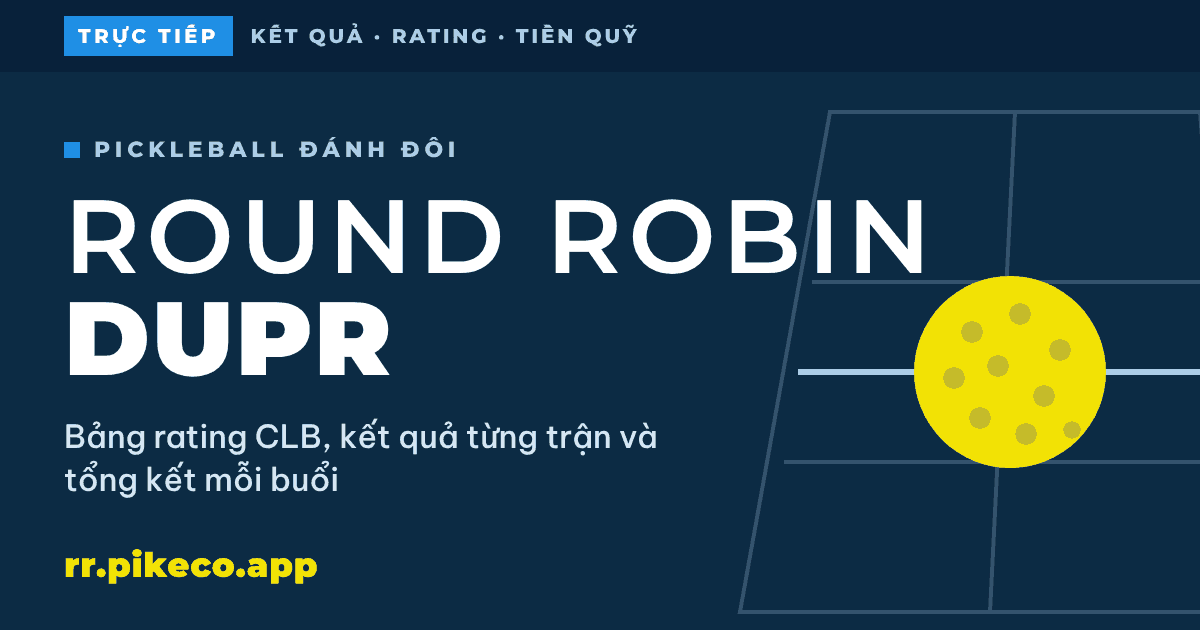
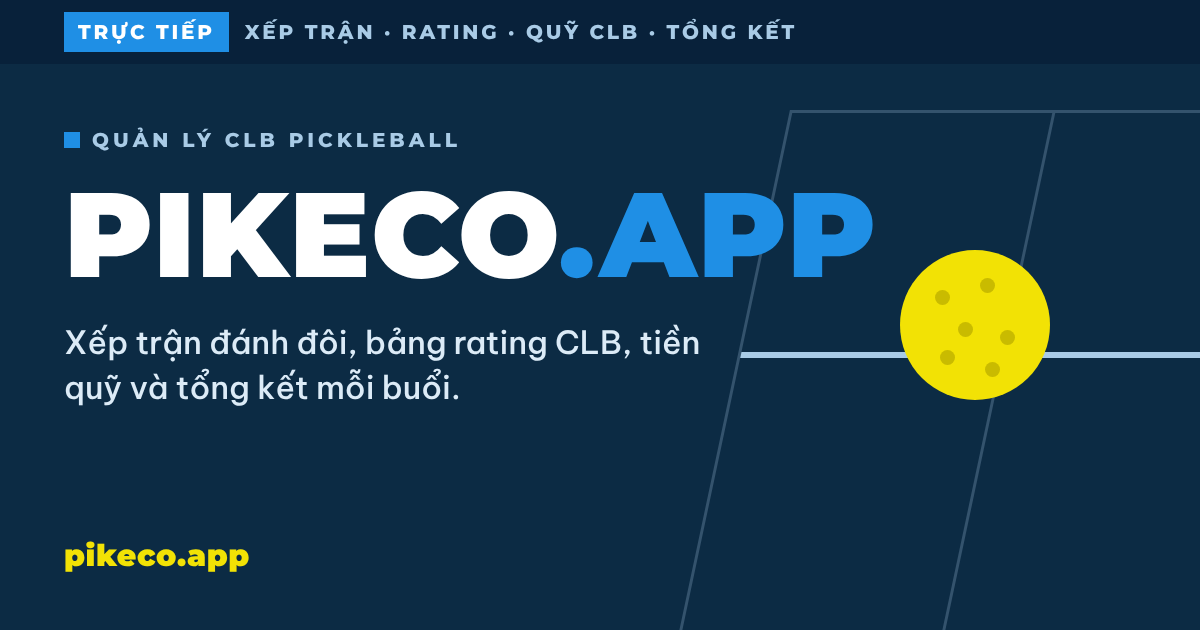
Ảnh xem trước link mới, tiêu đề xem trước theo CLB và buổi; bục trao giải gọn; tin nhắn Zalo ngắn như cũ
Claude-Session: https://claude.ai/code/session_01UfrmeMNsNkyY5aXJk9pdma

diff --git a/src/parts/60-home-lich-su.js b/src/parts/60-home-lich-su.js
@@ -47,16 +47,17 @@ const clubNm=D=>String(CLUB?.name||D.c.title||"CLB").trim();
 const fmtLine=(snap,fallback)=>[snap?.type==="giai"?"Giải cặp cố định":"Xoay cặp",snap?.rule||fallback].filter(Boolean).join(" · ");
 function shareText(D,x){
   const r=x.rows,s=x.snap||{},M=s.money,n=x.ms.length||s.matchCount||0,m=r[0];
-  const L=[`🏓 ${clubNm(D).toUpperCase()} · ${s.sname?s.sname+" · ":""}BUỔI #${x.sid} · ${dmy(x.at)}`,`${fmtLine(s)} · ${n} trận · ${r.length} người`,""];
-  if(m)L.push(`⭐ Người chơi của buổi: ${m.name} (${m.w}–${m.l}, HS ${m.pf-m.pa>0?"+":""}${m.pf-m.pa})`);
-  if(r.length>1)L.push("🏆 Top 3: "+r.slice(0,3).map((z,i)=>`${i+1}. ${z.name}`).join(" · "));
-  if(M&&M.prizes&&M.prizes.length)L.push("🎁 Giải: "+M.prizes.map(z=>`${z.label} ${(z.names||[]).join(" & ")} ${fmtK(z.k)}`).join(" · "));
-  const pay=r.filter(z=>(+z.pay||0)>0);
-  if(M&&pay.length){L.push("",`💰 Tiền buổi (${(THU[M.thu||"keo"]||"").toLowerCase()}):`);pay.sort((a,b)=>b.pay-a.pay).forEach(z=>L.push(`• ${z.name}: ${fmtK(z.pay)}${s.paid&&s.paid[z.id]?" ✓":""}`));
-    if(BANK)L.push(`Chuyển khoản ${BANK.name} ${BANK.acc} · ${BANK.holder}`)}
-  L.push("","Xem kết quả từng trận, rating và mã QR chuyển tiền:");
+  const L=[`TỔNG KẾT ${s.sname?s.sname.toUpperCase()+" · ":""}BUỔI #${x.sid} · ${dmy(x.at)}`,`${clubNm(D)} · ${fmtLine(s)} · ${n} trận · ${r.length} người`];
+  if(m)L.push(`MVP: ${m.name} ${m.w}–${m.l} (HS ${m.pf-m.pa>0?"+":""}${m.pf-m.pa})`);
+  if(r.length>1)L.push("Top 3: "+r.slice(0,3).map((z,i)=>`${i+1}. ${z.name}`).join(" · "));
+  if(M&&(M.cost||M.collected||M.fund)){const cl=M.club!=null?M.club:M.gap;L.push(`Quỹ: thu ${fmtK(M.collected!=null?M.collected:M.fund)} · chi ${fmtK(M.cost)} · ${cl>=0?"vào quỹ CLB":"quỹ CLB bù"} ${fmtK(Math.abs(cl))}`)}
+  if(M&&M.prizes&&M.prizes.length)L.push("Giải: "+M.prizes.map(z=>`${z.label} ${(z.names||[]).join(" & ")} ${fmtK(z.k)}`).join(" · "));
+  if(M&&r.some(z=>(+z.pay||0)>0)){if(BANK)L.push(`Chuyển khoản: ${BANK.name} ${BANK.acc} (${BANK.holder})`);L.push("Xem số tiền mỗi người phải đóng và bấm Chuyển khoản để có mã QR:")}
+  else L.push("Xem kết quả từng trận và rating:");
   return L.join("\n");
-}function vBuoi(D,sid){
+}
+const dmy=t=>{if(!t)return "";const d=new Date(t);return `${d.getDate()}/${d.getMonth()+1}/${d.getFullYear()}`};
+function vBuoi(D,sid){
   const x=sessList(D).find(z=>z.sid===sid);
   const back=`<a class="back" href="${pathOf("home")}" data-go="home">‹ Rating CLB</a>`;
   if(!x&&!S.hReady)return back+`<div class="empty"><strong>Đang tải buổi #${sid}…</strong></div>`;
@@ -82,7 +83,6 @@ function shareText(D,x){
   h+=`<div class="sharebox"><span class="lbl">Link riêng của buổi này</span><span class="url">${esc(shareUrl(sid).replace(/^https?:\/\//,""))}</span><div class="bt"><button class="primary" data-act="share" data-id="${sid}">Chia sẻ</button><button data-act="copylink" data-id="${sid}">Copy tin nhắn</button></div></div>${canWrite?`<div class="bar"><span class="grow"></span>${delBtn("sdel",sid,"Xóa buổi này")}</div>`:""}`;
   return h;
 }
-const dmy=t=>{if(!t)return "";const d=new Date(t);return `${d.getDate()}/${d.getMonth()+1}/${d.getFullYear()}`};
 function vLs(D){
   const L=sessList(D);
   if(!L.length)return `<div class="empty"><strong>Chưa có buổi nào kết thúc</strong>Khi ban tổ chức chốt buổi ở tab Sân, buổi đó sẽ được lưu ở đây cùng bảng xếp hạng, các trận và bảng tiền.</div>`;
@@ -99,13 +99,11 @@ function vLs(D){
   }).join("");
 }
 function summaryText(D){
-  const c=D.c,M=money(D),d=new Date(),R=recv(D,M);
-  const L=[`🏓 ${clubNm(D).toUpperCase()} · ${sessTitle(c,D.sid).toUpperCase()} · ${d.getDate()}/${d.getMonth()+1}`,`${fmtTxt(c)} · ${ruleTxt(c)} · ${D.done.length} trận`,""];
-  const st=standings(D).filter(r=>r.s.g);
-  if(st.length){L.push("🏆 Xếp hạng tới giờ:");st.slice(0,10).forEach((r,i)=>L.push(`${i+1}. ${r.p.name} — ${r.s.w}T-${r.s.l}B, HS ${r.s.pf-r.s.pa>0?"+":""}${r.s.pf-r.s.pa}`))}
-  if(M.att.length&&R.tot){L.push("",`💰 Tiền buổi (${(THU[M.thu]||"").toLowerCase()}) · đã nhận ${R.np}/${R.n}:`);
-    [...M.att].filter(p=>M.payOf(p.id)>0).sort((a,b)=>M.payOf(b.id)-M.payOf(a.id)).forEach(p=>L.push(`• ${p.name}: ${fmtK(M.payOf(p.id))}${R.paid[p.id]?" ✓":""}`));
-    if(BANK)L.push(`Chuyển khoản ${BANK.name} ${BANK.acc} · ${BANK.holder}`)}
-  L.push("","Xem trực tiếp và mã QR chuyển tiền:",absUrl(pathOf("app",{tab:"tien"})));
+  const c=D.c,M=money(D),d=new Date(),R=recv(D,M),st=standings(D).filter(r=>r.s.g);
+  const L=[`TỔNG KẾT ${sessTitle(c,D.sid).toUpperCase()} · ${d.getDate()}/${d.getMonth()+1}`,`${clubNm(D)} · ${fmtTxt(c)} · ${ruleTxt(c)} · ${D.done.length} trận`];
+  if(st.length)L.push("Top 3: "+st.slice(0,3).map((r,i)=>`${i+1}. ${r.p.name} ${r.s.w}–${r.s.l}`).join(" · "));
+  if(R.tot){L.push(`Phải thu ${fmtK(R.tot)} · đã nhận ${R.np}/${R.n}`);if(BANK)L.push(`Chuyển khoản: ${BANK.name} ${BANK.acc} (${BANK.holder})`);L.push("Xem số tiền của bạn và mã QR:")}
+  else L.push("Xem trực tiếp:");
+  L.push(absUrl(pathOf("app",{tab:R.tot?"tien":"san"})));
   return L.join("\n");
 }

diff --git a/src/parts/70-giai.js b/src/parts/70-giai.js
@@ -206,10 +206,9 @@ function vGiaiSum(D,x,back){
   const hs=t=>{const d=t.pf-t.pa;return (d>0?"+":"")+d};
   const games=G.games||[],pts=games.reduce((a,g)=>a+(+g.sx||0)+(+g.sy||0),0),ranked=T.filter(t=>!t.out);
   const c1=ranked[0],c2=ranked[1],c3=ranked[2];
-  let h=back+`<div class="hero"><div class="phead"><span class="eyebrow">${s.sname?esc(s.sname):"Giải cặp cố định"} · ${dmy(x.at)}</span><h1 class="num">Buổi #${x.sid}</h1><p class="hmeta">${T.length} cặp đánh vòng tròn, mỗi cặp gặp tất cả các cặp còn lại một lần. Chạm 11, không cần cách 2.${G.complete===false?" Giải kết thúc sớm.":""}</p></div>
+  let h=back+`<div class="hero"><div class="phead"><span class="eyebrow">${s.sname?esc(s.sname):"Giải cặp cố định"} · ${dmy(x.at)}</span><h1 class="num">Buổi #${x.sid}</h1><p class="hmeta">${T.length} cặp đánh vòng tròn, mỗi cặp gặp tất cả các cặp còn lại một lần. ${esc(s.rule||"Chạm 11, không cần cách 2")}.${G.complete===false?" Giải kết thúc sớm.":""}</p></div>
     <div class="stats"><div><b class="num">${T.length}</b><small>CẶP</small></div><div><b class="num">${games.filter(g=>!g.wo).length}</b><small>TRẬN</small></div><div><b class="num">${pts||"–"}</b><small>ĐIỂM GHI</small></div></div>
-    <div class="hsplit">${c1?`<div class="champ"><div class="k"><span>VÔ ĐỊCH</span><span>${pzTxt(pz[0])}</span></div><div class="p">${tAv(c1,"xl")}<span><span class="n">${tNm(c1)}</span><span class="s num" style="display:block;margin-top:6px">${c1.w} thắng · ${c1.l} thua · HS ${hs(c1)}</span></span></div></div>`:""}
-    ${c2?`<div class="podium">${[c2,c3].map((t,i)=>t?`<div class="${i?"b3":"b2"}"><span class="k">HẠNG ${i+2}</span>${tAv(t,"md")}<span class="n">${tNm(t)}</span><span class="s num">${t.w} thắng · ${t.l} thua · HS ${hs(t)}</span>${pz[i+1]?`<span class="pz num">${pzTxt(pz[i+1])}</span>`:""}</div>`:"").join("")}</div>`:""}</div></div>`;
+    ${c1?`<div class="gpod">${[c1,c2,c3].map((t,i)=>t?`<div class="pc p${i+1}"><span class="md">${["Nhất","Nhì","Ba"][i]}</span>${tAv(t,i?"md":"lg")}<span class="tx"><span class="n">${tNm(t)}</span><span class="s num">${t.w} thắng · ${t.l} thua · HS ${hs(t)}</span></span>${pz[i]?`<span class="pz num">${pzTxt(pz[i])}</span>`:""}</div>`:"").join("")}</div>`:""}</div>`;
   h+=`<div class="shd"><h2>Bảng xếp hạng</h2><span class="meta">Ô xanh thắng · đỏ thua · số là điểm ghi</span></div>`+gRank(T.map(t=>({...t})),games.map(g=>({...g})),pz,PP);
   h+=`<p class="rule">Bằng số trận thắng thì xét đối đầu trực tiếp, rồi hiệu số, rồi tổng điểm ghi. Trận cặp bỏ giải chưa đánh tính thắng cho đối thủ, không cộng điểm.</p>`;
   if(games.length)h+=`<div class="shd"><h2>Kết quả các trận</h2></div><div class="mgrid">${[...games].sort((a,b)=>a.r-b.r||(a.seq||0)-(b.seq||0)).map(g=>{const X=tb.get(g.x),Y=tb.get(g.y);if(!X||!Y)return "";
@@ -222,10 +221,9 @@ function vGiaiSum(D,x,back){
   return h;
 }
 function giaiShare(D,x){
-  const s=x.snap,G=s.giai||{},T=(G.table||[]).filter(t=>!t.out),pz=G.prizes||[],md=["🥇","🥈","🥉"];
-  const L=[`🏓 ${clubNm(D).toUpperCase()} · ${s.sname||"GIẢI CẶP CỐ ĐỊNH"} · BUỔI #${x.sid} · ${dmy(x.at)}`,`Vòng tròn · ${s.rule||"chạm 11"} · ${(G.table||[]).length} cặp · ${(G.games||[]).filter(g=>!g.wo).length} trận`,""];
-  T.slice(0,3).forEach((t,i)=>L.push(`${md[i]} ${["Nhất","Nhì","Ba"][i]}: ${t.na} & ${t.nb} (${t.w}–${t.l}, HS ${t.pf-t.pa>0?"+":""}${t.pf-t.pa})${pz[i]?` · ${pzTxt(pz[i])}`:""}`));
-  if(T.length>3)L.push("Các cặp còn lại: "+T.slice(3).map((t,i)=>`${i+4}. ${t.na} & ${t.nb}`).join(" · "));
-  L.push("","Xem bảng xếp hạng, kết quả từng trận và rating sau giải:");
+  const s=x.snap,G=s.giai||{},T=(G.table||[]).filter(t=>!t.out),pz=G.prizes||[];
+  const L=[`TỔNG KẾT ${s.sname?s.sname.toUpperCase():"GIẢI CẶP CỐ ĐỊNH"} · BUỔI #${x.sid} · ${dmy(x.at)}`,`${clubNm(D)} · vòng tròn ${(G.table||[]).length} cặp · ${s.rule||"chạm 11"}`];
+  T.slice(0,3).forEach((t,i)=>L.push(`${["Nhất","Nhì","Ba"][i]}: ${t.na} & ${t.nb} (${t.w}–${t.l})${pz[i]?` · ${pzTxt(pz[i])}`:""}`));
+  L.push("Xem bảng xếp hạng, kết quả từng trận và rating sau giải:");
   return L.join("\n");
 }

diff --git a/functions/_middleware.js b/functions/_middleware.js
@@ -1,0 +1,63 @@
+// Xem trước link (Zalo, Messenger…): sửa tiêu đề và mô tả theo CLB và buổi.
+// Trình đọc link không chạy JavaScript nên cần ghi sẵn vào HTML trả về.
+const RESERVED = new Set(["", "clb", "tao-clb", "dang-nhap", "quan-tri", "assets", "index.html"]);
+const val = v => v == null ? null : "stringValue" in v ? v.stringValue : "integerValue" in v ? Number(v.integerValue)
+  : "doubleValue" in v ? v.doubleValue : "booleanValue" in v ? v.booleanValue
+  : "arrayValue" in v ? (v.arrayValue.values || []).map(val)
+  : "mapValue" in v ? Object.fromEntries(Object.entries(v.mapValue.fields || {}).map(([k, x]) => [k, val(x)])) : null;
+async function getDoc(project, path) {
+  const u = `https://firestore.googleapis.com/v1/projects/${project}/databases/(default)/documents/${path}`;
+  const r = await fetch(u, { cf: { cacheTtl: 120, cacheEverything: true } });
+  if (!r.ok) return null;
+  const j = await r.json();
+  return Object.fromEntries(Object.entries(j.fields || {}).map(([k, x]) => [k, val(x)]));
+}
+const dmy = t => { if (!t) return ""; const d = new Date(t + 7 * 3600e3); return `${d.getUTCDate()}/${d.getUTCMonth() + 1}/${d.getUTCFullYear()}`; };
+const TAB = { san: "Sân đấu", "xep-hang": "Xếp hạng", "thanh-vien": "Thành viên", quy: "Quỹ", "lich-su": "Lịch sử" };
+
+export async function meta(url) {
+  const seg = url.pathname.split("/").filter(Boolean).map(decodeURIComponent);
+  const cid = (seg[0] || "").toLowerCase();
+  if (!cid || RESERVED.has(cid) || !/^[a-z0-9-]{2,20}$/.test(cid)) return null;
+  const project = /(^|\.)pikeco\.app$/.test(url.hostname) ? "keo-pickleball" : "pikeco-dev-53834";
+  const club = await getDoc(project, `clubs/${cid}`);
+  if (!club || !club.name) return null;
+  const name = club.name;
+  let title = `${name} · pikeco.app`, desc = `Bảng rating, kết quả từng trận và tổng kết mỗi buổi của ${name}. Xem trực tiếp, không cần đăng nhập.`;
+  if (seg[1] === "buoi" && /^\d+$/.test(seg[2] || "") && club.public !== false) {
+    const h = await getDoc(project, `clubs/${cid}/app/hist-${seg[2]}`);
+    if (h) {
+      const sn = h.sname ? `${h.sname} · ` : "";
+      title = `${sn}Tổng kết buổi #${seg[2]} · ${name}`;
+      if (h.type === "giai") {
+        const T = ((h.giai || {}).table || []).filter(t => !t.out);
+        desc = [`Giải vòng tròn ${((h.giai || {}).table || []).length} cặp · ${dmy(h.startedAt)}`, T[0] && `Nhất: ${T[0].na} & ${T[0].nb}`, T[1] && `Nhì: ${T[1].na} & ${T[1].nb}`, T[2] && `Ba: ${T[2].na} & ${T[2].nb}`].filter(Boolean).join(" · ");
+      } else {
+        const R = h.rows || [];
+        desc = [`${h.matchCount || 0} trận · ${R.length} người · ${dmy(h.startedAt)}`, R.length && "Top 3: " + R.slice(0, 3).map(r => r.name).join(", ")].filter(Boolean).join(" · ");
+      }
+    }
+  } else if (TAB[seg[1]]) title = `${TAB[seg[1]]} · ${name}`;
+  return { title, desc };
+}
+class SetAttr { constructor(v) { this.v = v } element(e) { e.setAttribute("content", this.v) } }
+class SetText { constructor(v) { this.v = v } element(e) { e.setInnerContent(this.v) } }
+
+export async function onRequest(ctx) {
+  const res = await ctx.next();
+  const ct = res.headers.get("content-type") || "";
+  if (ctx.request.method !== "GET" || !ct.includes("text/html")) return res;
+  let m = null;
+  try { m = await Promise.race([meta(new URL(ctx.request.url)), new Promise(r => setTimeout(() => r(null), 1500))]); } catch (e) { m = null; }
+  if (!m) return res;
+  const url = ctx.request.url.split("?")[0];
+  return new HTMLRewriter()
+    .on("title", new SetText(m.title))
+    .on('meta[property="og:title"]', new SetAttr(m.title))
+    .on('meta[name="twitter:title"]', new SetAttr(m.title))
+    .on('meta[property="og:description"]', new SetAttr(m.desc))
+    .on('meta[name="twitter:description"]', new SetAttr(m.desc))
+    .on('meta[name="description"]', new SetAttr(m.desc))
+    .on('meta[property="og:url"]', new SetAttr(url))
+    .transform(res);
+}

diff --git a/src/styles/app.css b/src/styles/app.css
@@ -707,3 +707,22 @@ button.tick.on .box{background:var(--blue);border-color:var(--blue);color:#fff}
 .grk .pz small{font-family:var(--display);font-weight:800;font-size:10px;letter-spacing:.12em;text-transform:uppercase;color:var(--muted)}
 .grk .pz b{font-family:var(--display);font-weight:900;font-size:14px;color:var(--navy);white-space:nowrap}
 .form.f3{grid-template-columns:repeat(3,minmax(0,1fr))}
+/* Bục trao giải của giải vòng tròn */
+.gpod{display:grid;grid-template-columns:repeat(2,minmax(0,1fr));gap:8px}
+.gpod .pc{background:var(--navy-3);color:#fff;padding:12px;display:grid;grid-template-columns:auto minmax(0,1fr);grid-template-areas:"md md" "av tx" "pz pz";gap:8px 10px;align-items:center;border-top:4px solid #c9d3db;min-width:0}
+.gpod .pc.p1{grid-column:1/-1;background:var(--yellow);color:var(--navy);border-top:none;grid-template-columns:auto minmax(0,1fr) auto;grid-template-areas:"md md md" "av tx pz";padding:16px}
+.gpod .pc.p3{border-top-color:#d9905a}
+.gpod .md{grid-area:md;font-family:var(--display);font-weight:900;font-size:11px;letter-spacing:.16em;text-transform:uppercase;color:var(--sky)}
+.gpod .p1 .md{color:var(--navy)}
+.gpod .avs{grid-area:av;display:flex}.gpod .avs .av+.av{margin-left:-10px}
+.gpod .p1 .av.lg{--s:56px;box-shadow:0 0 0 3px var(--yellow)}.gpod .p1 .avs .av+.av{margin-left:-14px}
+.gpod .av.md{--s:36px;box-shadow:0 0 0 2px var(--navy-3)}
+.gpod .tx{grid-area:tx;display:flex;flex-direction:column;gap:2px;min-width:0}
+.gpod .n{font-family:var(--display);font-weight:900;font-size:15px;line-height:1.15;text-transform:uppercase;overflow-wrap:anywhere}
+.gpod .p1 .n{font-size:clamp(18px,5vw,26px)}
+.gpod .s{font-size:12px;color:var(--sky)}.gpod .p1 .s{color:var(--navy);font-weight:600}
+.gpod .pz{grid-area:pz;font-family:var(--display);font-weight:900;font-size:14px;color:var(--yellow)}
+.gpod .p1 .pz{color:var(--navy);font-size:18px;text-align:right}
+@media (min-width:700px){.gpod{grid-template-columns:1fr 1.3fr 1fr;align-items:end}.gpod .pc.p1{grid-column:2;grid-row:1;grid-template-columns:auto minmax(0,1fr);grid-template-areas:"md md" "av tx" "pz pz";padding:20px 16px}.gpod .pc.p2{grid-column:1;grid-row:1}.gpod .pc.p3{grid-column:3;grid-row:1}.gpod .p1 .pz{text-align:left}}
+@media (max-width:699px){.gpod .pc:not(.p1){grid-template-columns:1fr;grid-template-areas:"md" "av" "tx" "pz"}
+.gpod .pc.p1{grid-template-columns:auto minmax(0,1fr);grid-template-areas:"md md" "av tx" "pz pz"}.gpod .p1 .pz{text-align:left}}

diff --git a/tests/xem-truoc-link.test.js b/tests/xem-truoc-link.test.js
@@ -1,0 +1,26 @@
+import { test, expect, vi } from "vitest";
+import { meta } from "../functions/_middleware.js";
+
+const S = v => typeof v === "number" ? { integerValue: String(v) } : typeof v === "boolean" ? { booleanValue: v } : Array.isArray(v) ? { arrayValue: { values: v.map(S) } } : v && typeof v === "object" ? { mapValue: { fields: Object.fromEntries(Object.entries(v).map(([k, x]) => [k, S(x)])) } } : { stringValue: String(v) };
+const docs = {
+  "clubs/aep": { name: "AEP Pickleball", public: true },
+  "clubs/aep/app/hist-2": { type: "giai", startedAt: Date.UTC(2026, 9, 13), sname: "Giải tháng 10", giai: { table: [{ na: "Đức", nb: "Chi" }, { na: "Minh", nb: "Lan" }, { na: "Tuấn", nb: "Hà" }] } },
+  "clubs/aep/app/hist-1": { matchCount: 6, startedAt: Date.UTC(2026, 9, 10), rows: [{ name: "Mai" }, { name: "Đức" }, { name: "Hà" }, { name: "Chi" }] }
+};
+globalThis.fetch = vi.fn(async u => { const p = decodeURIComponent(u).split("/documents/")[1]; const d = docs[p];
+  return d ? { ok: true, json: async () => ({ fields: Object.fromEntries(Object.entries(d).map(([k, v]) => [k, S(v)])) }) } : { ok: false }; });
+
+test("xem trước link: tên CLB, buổi xoay cặp, buổi giải", async () => {
+  expect(await meta(new URL("https://pikeco.app/"))).toBe(null);
+  expect(await meta(new URL("https://pikeco.app/clb"))).toBe(null);
+  expect((await meta(new URL("https://pikeco.app/aep"))).title).toBe("AEP Pickleball · pikeco.app");
+  expect((await meta(new URL("https://pikeco.app/aep/xep-hang"))).title).toBe("Xếp hạng · AEP Pickleball");
+  const b1 = await meta(new URL("https://pikeco.app/aep/buoi/1"));
+  expect(b1.title).toBe("Tổng kết buổi #1 · AEP Pickleball");
+  expect(b1.desc).toBe("6 trận · 4 người · 10/10/2026 · Top 3: Mai, Đức, Hà");
+  const b2 = await meta(new URL("https://pikeco.app/aep/buoi/2"));
+  expect(b2.title).toBe("Giải tháng 10 · Tổng kết buổi #2 · AEP Pickleball");
+  expect(b2.desc).toContain("Nhất: Đức & Chi");
+  expect(await meta(new URL("https://pikeco.app/khong-co"))).toBe(null);
+  expect(fetch.mock.calls[2][0]).toContain("/projects/keo-pickleball/");
+});

diff --git a/index.html b/index.html
@@ -10,11 +10,11 @@
 <meta property="og:title" content="pikeco.app · Quản lý CLB pickleball">
 <meta property="og:description" content="Bảng rating CLB, kết quả từng trận, tiền quỹ và tổng kết mỗi buổi đánh đôi. Xem trực tiếp, không cần đăng nhập.">
 <meta property="og:url" content="https://pikeco.app/">
-<meta property="og:image" content="https://pikeco.app/og.png">
+<meta property="og:image" content="https://pikeco.app/og.png?v=2">
 <meta property="og:image:type" content="image/png">
 <meta property="og:image:width" content="1200">
 <meta property="og:image:height" content="630">
-<meta property="og:image:alt" content="Round Robin DUPR – bảng rating và kết quả pickleball tại rr.pikeco.app">
+<meta property="og:image:alt" content="pikeco.app – quản lý CLB pickleball: xếp trận, rating, quỹ CLB">
 <meta property="og:locale" content="vi_VN">
 <meta name="twitter:card" content="summary_large_image">
 <link rel="icon" type="image/png" href="/icon-180.png">

diff --git a/tests/giai.test.js b/tests/giai.test.js
@@ -45,7 +45,7 @@ test("giải cặp cố định: xếp lịch, kiểm tỉ số, rút lui, tổn
   expect(h.giai.prizes.length).toBeGreaterThan(0);
   const sv = e.V();
   expect((sv.match(/class="av /g) || []).length).toBeGreaterThanOrEqual(10);
-  expect(sv).toContain('class="champ"');
+  expect(sv).toContain('class="gpod"');
   await e.tab("home");
   expect(e.V()).toContain("vô địch");
 });
